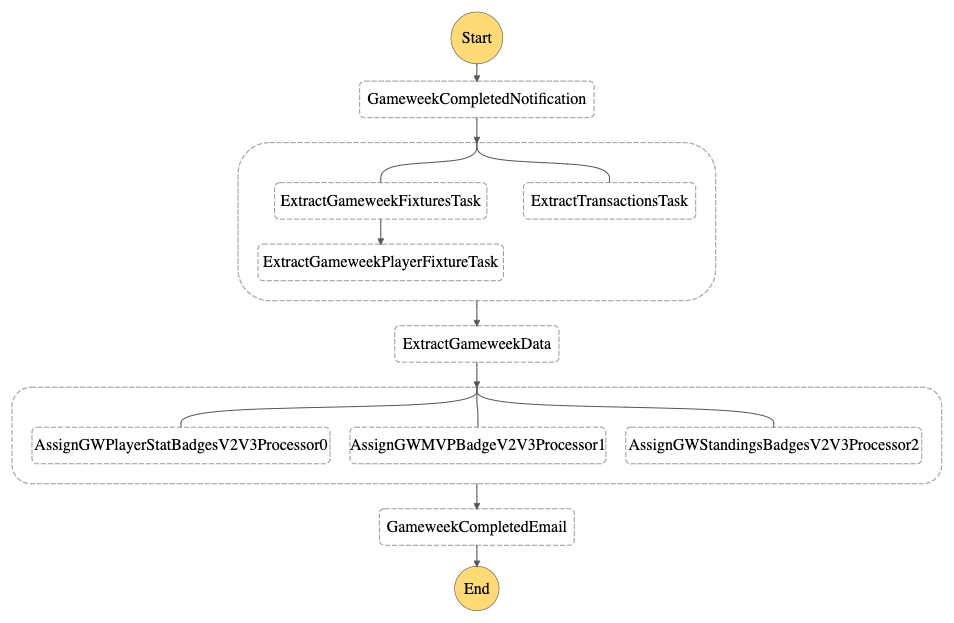
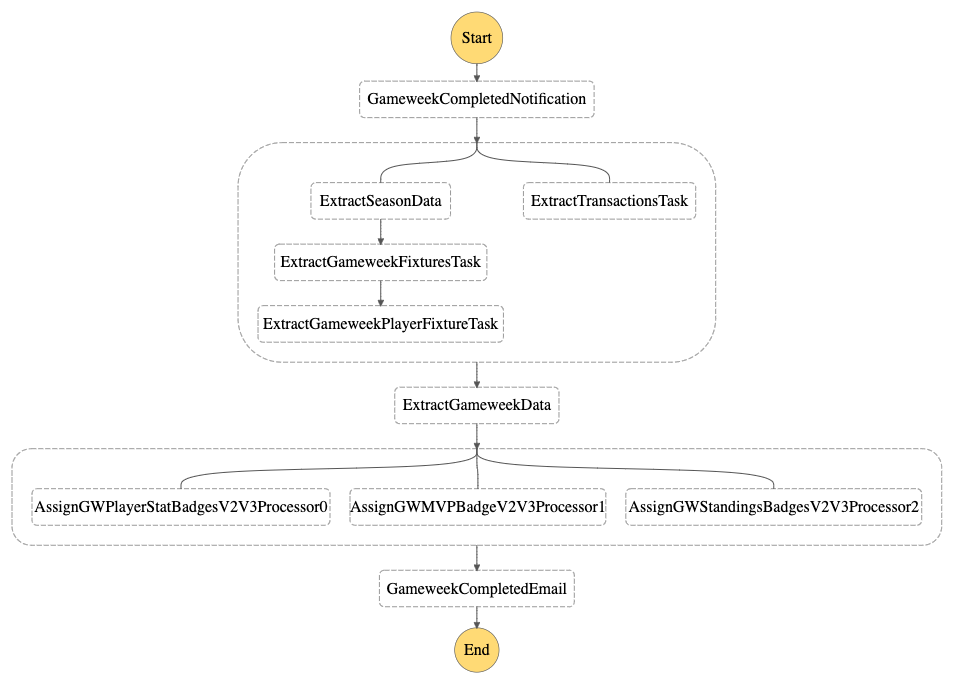
add base player and team extraction to gameweek processing extraction

Changed region(s): [[0.0304, 0.0, 0.9727, 1.0]]

diff --git a/fantasy-infra/lib/step-function/gameweek-processing-machine.ts b/fantasy-infra/lib/step-function/gameweek-processing-machine.ts
@@ -15,6 +15,8 @@ import { PremiereLeagueRDSDataLambda } from '../lambda/premier-league-rds-data-l
 import { DataSourcesMap, DataSourceMapKeys } from '../data/data-stores';
 import { ExtractGameweekFixturesLambda } from '../lambda/extract-gameweek-fixtures-lambda';
 import { ExtractFantasyTransactionsLambda } from '../lambda/extract-fantasy-transactions-lambda';
+import { ExtractSeasonDataLambda } from '../lambda/extract-season-data-lambda';
+import { Duration } from '@aws-cdk/core';
 
 export interface GameweekProcessingMachineProps {
     gameweekCompletedTopic: sns.Topic;
@@ -31,6 +33,7 @@ export interface GameweekProcessingMachineProps {
 }
 export class GameweekProcessingMachine extends cdk.Construct{
 
+    extractSeasonDataLambda: lambda.Function;
     extractGameweekFixturesLambda: lambda.Function;
     extractPlayerFixtureLambda: lambda.Function;
     extractGameweekDataLambda: lambda.Function;
@@ -55,6 +58,12 @@ export class GameweekProcessingMachine extends cdk.Construct{
         });
 
         const parallelGameweekDataExtraction = new stepFunctions.Parallel(this, "GameweekExtractionProcessors");
+        const extractSeasonDataTask = new stepFunctions.Task(this, "ExtractSeasonData", {
+            task: new stepFunctionTasks.InvokeFunction(this.extractSeasonDataLambda),
+            timeout: cdk.Duration.minutes(20),
+            comment: "Extracts and stores data from FPL for processing season data",
+            resultPath: stepFunctions.JsonPath.DISCARD
+        });
         const extractGameweekFixturesTask = new stepFunctions.Task(this, "ExtractGameweekFixturesTask", {
             task: new stepFunctionTasks.InvokeFunction(this.extractGameweekFixturesLambda),
             timeout: cdk.Duration.minutes(5),
@@ -70,8 +79,9 @@ export class GameweekProcessingMachine extends cdk.Construct{
             timeout: cdk.Duration.minutes(5),
             comment: "Extracts and stores transactions for the league"
         });
+        extractSeasonDataTask.next(extractGameweekFixturesTask);
         extractGameweekFixturesTask.next(extractGameweekPlayerFixtureTask);
-        parallelGameweekDataExtraction.branch(extractGameweekFixturesTask);
+        parallelGameweekDataExtraction.branch(extractSeasonDataTask);
         parallelGameweekDataExtraction.branch(extractTransactionsTask);
 
         const extractGameweekDataTask = new stepFunctions.Task(this, "ExtractGameweekData", {
@@ -109,7 +119,8 @@ export class GameweekProcessingMachine extends cdk.Construct{
         this.gameweekProcessingStateMachine = new stepFunctions.StateMachine(this, "GameweekProcessingStateMachine", {
             stateMachineName: "GameweekProcessingStateMachine",
             definition: gameweekCompletedPublishTask,
-            stateMachineType: stepFunctions.StateMachineType.STANDARD
+            stateMachineType: stepFunctions.StateMachineType.STANDARD,
+            timeout: Duration.minutes(30)
         });
 
         const alarm = new cw.Alarm(this, 'GameweekProcessingStepFunctionFailureAlarm', {
@@ -126,6 +137,13 @@ export class GameweekProcessingMachine extends cdk.Construct{
     }
 
     createLambdas(props: GameweekProcessingMachineProps): void {
+
+        this.extractSeasonDataLambda = new ExtractSeasonDataLambda(this, "ExtractSeasonDataLambdaFunction", {
+            vpc: props.vpc,
+            plRDSCluster: props.dataSourcesMap.rdsClusters[DataSourceMapKeys.PREMIER_LEAGUE_RDS_CLUSTER],
+            leagueDetailsTable: props.dataSourcesMap.ddbTables[DataSourceMapKeys.LEAGUE_DETAILS_TABLE],
+            gameweeksTable: props.dataSourcesMap.ddbTables[DataSourceMapKeys.GAMEWEEKS_TABLE]
+        });
 
         this.extractGameweekDataLambda = new ExtractGameweekDataLambda(this, "ExtractGameweekDataLambda", {
             gameweeksTable: props.gameweeksTable,

diff --git a/fantasy-infra/lib/step-function/season-processing-machine.ts b/fantasy-infra/lib/step-function/season-processing-machine.ts
@@ -9,7 +9,6 @@ import * as cw from '@aws-cdk/aws-cloudwatch';
 import * as ec2 from '@aws-cdk/aws-ec2';
 import * as cwActions from '@aws-cdk/aws-cloudwatch-actions';
 import { AssignSeasonBadgesLambda } from '../lambda/assign-season-badges-lambda';
-import { ExtractSeasonDataLambda } from '../lambda/extract-season-data-lambda';
 import { DataSourcesMap, DataSourceMapKeys } from '../data/data-stores';
 
 export interface SeasonProcessingMachineProps {
@@ -25,7 +24,6 @@ export interface SeasonProcessingMachineProps {
 }
 export class SeasonProcessingMachine extends cdk.Construct{
 
-    extractSeasonDataLambda: lambda.Function;
     seasonBadgeLambdas: lambda.Function[];
     seasonProcessingStateMachine: stepFunctions.StateMachine;
 
@@ -58,13 +56,6 @@ export class SeasonProcessingMachine extends cdk.Construct{
             parallelSeasonBadgeProcessor.branch(stepFunctionTask);
         }
 
-        // The currently season data extraction lambda is used for instantiating the basic objects for the league, no additional data extraction at this point
-        // const extractSeasonDataTask = new stepFunctions.Task(this, "ExtractSeasonData", {
-        //     task: new stepFunctionTasks.InvokeFunction(this.extractSeasonDataLambda),
-        //     timeout: cdk.Duration.minutes(5),
-        //     comment: "Extracts and stores data from FPL for processing season data"
-        // });
-
         seasonCompletedPublishTask.next(parallelSeasonBadgeProcessor);
 
         this.seasonProcessingStateMachine = new stepFunctions.StateMachine(this, "SeasonProcessingStateMachine", {
@@ -84,12 +75,6 @@ export class SeasonProcessingMachine extends cdk.Construct{
     }
 
     createLambdas(props: SeasonProcessingMachineProps): void {
-        this.extractSeasonDataLambda = new ExtractSeasonDataLambda(this, "ExtractSeasonDataLambdaFunction", {
-            vpc: props.vpc,
-            plRDSCluster: props.dataSourcesMap.rdsClusters[DataSourceMapKeys.PREMIER_LEAGUE_RDS_CLUSTER],
-            leagueDetailsTable: props.dataSourcesMap.ddbTables[DataSourceMapKeys.LEAGUE_DETAILS_TABLE],
-            gameweeksTable: props.dataSourcesMap.ddbTables[DataSourceMapKeys.GAMEWEEKS_TABLE]
-        });
         const seasonBadgeMetadatas = [
             {
                 functionName: "AssignLeagueAwardsBadgesV2",

diff --git a/backend-service/services/season-processing-service.js b/backend-service/services/season-processing-service.js
@@ -24,18 +24,10 @@ module.exports = {
         for (let i in players){
             let player = players[i];
             let playerObject = await this._persistPlayerIfNotExists(player);
-            console.log(JSON.stringify(playerObject));
             // for each player, insert a player_season row for the season
             let playerSeasonInsertResults = await premiereLeagueDataDao.upsertPlayerSeasonData(player.id, playerObject.player_id, this._getLeagueYear(activeLeague));
         }
         
-        // All transactions
-        // https://draft.premierleague.com/api/draft/league/11133/transactions
-        // fetch all transactions for the league
-        // iterate through the transactions and insert them into the transactions table
-
-        // Top Elements
-        // https://draft.premierleague.com/api/top-elements
         return extractSeasonDataRequest;
     },
 

diff --git a/fantasy-infra/lib/step-function/fantasy-league-state-machine.ts b/fantasy-infra/lib/step-function/fantasy-league-state-machine.ts
@@ -125,7 +125,8 @@ export class FantasyLeagueStateMachine extends cdk.Construct{
         const stateMachine = new stepFunctions.StateMachine(this, "FantasyLeagueProcessingStateMachine", {
             stateMachineName: "FantasyLeagueProcessingStateMachine",
             definition: hasGameweekCompletedTask,
-            stateMachineType: stepFunctions.StateMachineType.STANDARD
+            stateMachineType: stepFunctions.StateMachineType.STANDARD,
+            timeout: cdk.Duration.minutes(60)
         });
 
         const alarm = new cw.Alarm(this, 'FantasyLeagueStepFunctionFailureAlarm', {

diff --git a/fantasy-infra/lib/lambda/extract-season-data-lambda.ts b/fantasy-infra/lib/lambda/extract-season-data-lambda.ts
@@ -18,7 +18,7 @@ export class ExtractSeasonDataLambda extends PremiereLeagueRDSDataLambda {
             "LEAGUE_DETAILS_TABLE_NAME": props.leagueDetailsTable.tableName,
             "GAMEWEEK_TABLE_NAME": props.gameweeksTable.tableName,
         },
-        functionName: "ExtractSeasonDataLambda",
+        functionName: "ExtractSeasonDataLambdaV2",
         description: "Extracts data for a Season",
         vpc: props.vpc,
         plRDSCluster: props.plRDSCluster
